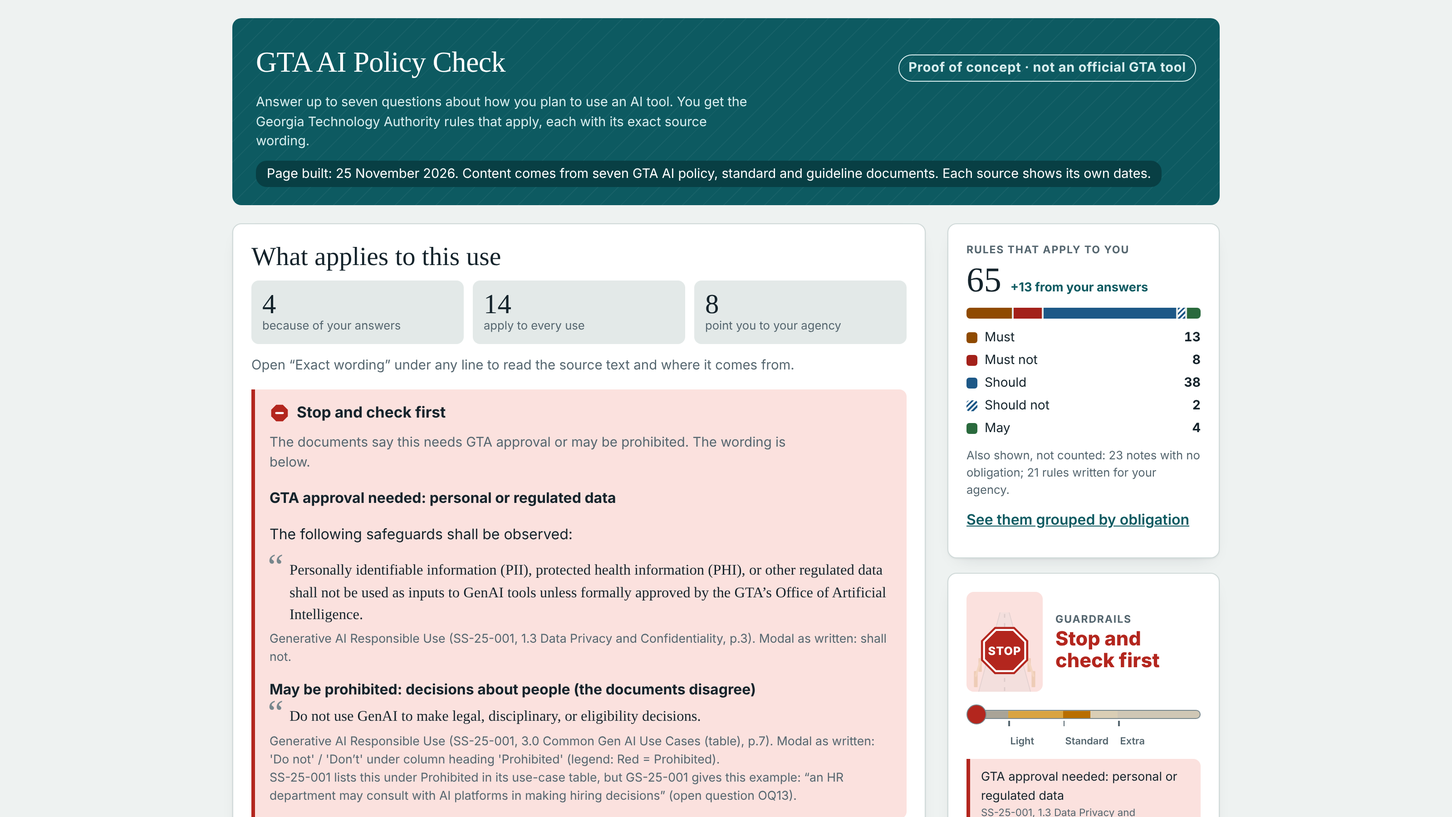
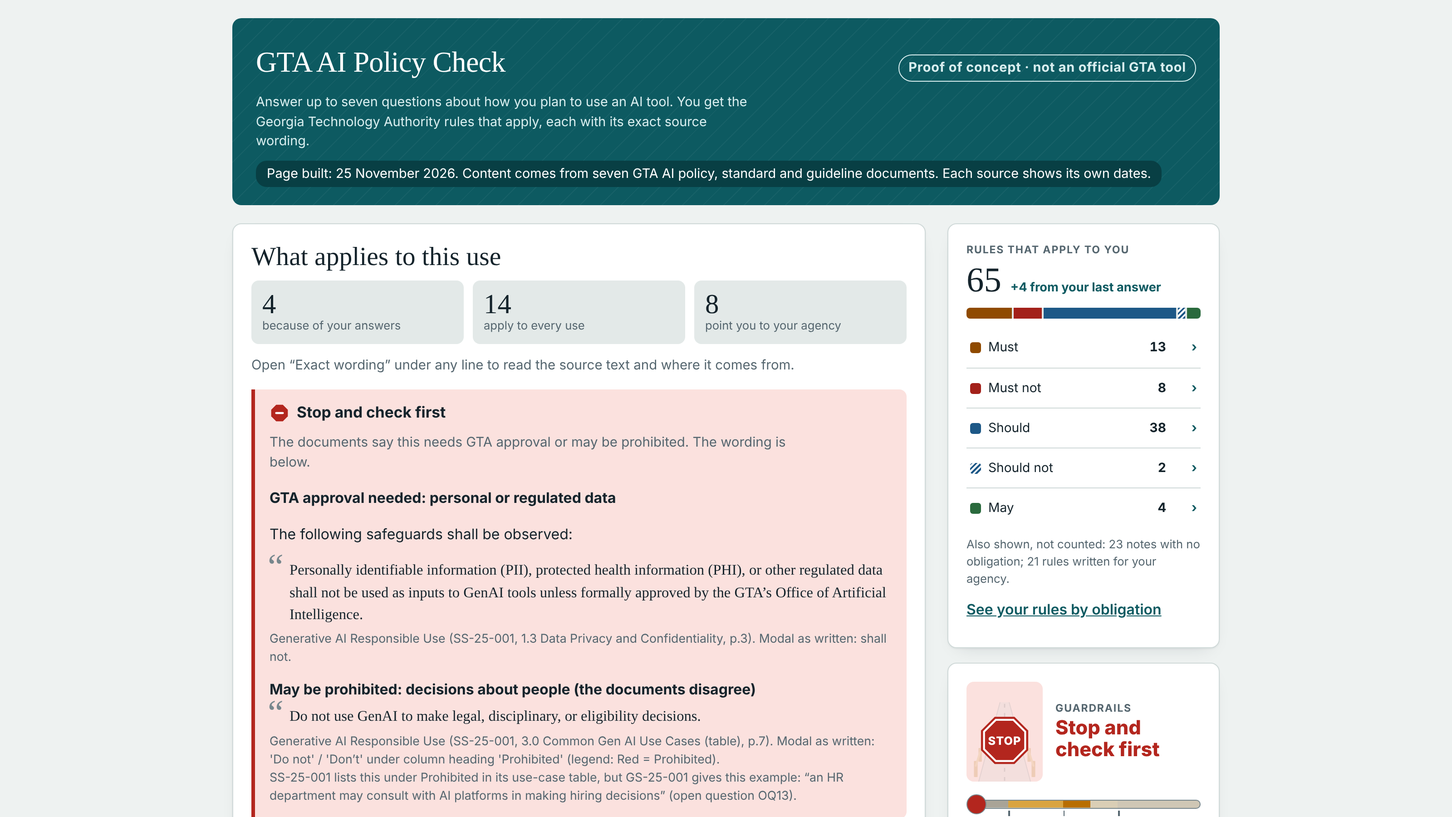
Start over to the first question; link rule counts to results; count from 0
- Start over clears answers and returns to the first question; every
  result page (including 'It does not use AI') ends with Start over
- Each legend row opens results grouped by obligation at that section;
  agency rules get their own section so counts match the panel
- Rules count is 0 until the first answer; label shows each answer's change

Claude-Session: https://claude.ai/code/session_01UME3yHyTmeMZN4Qs47Nq3S

Changed region(s): [[0.6562, 0.4044, 0.8438, 1.0], [0.6875, 0.3422, 0.8125, 0.3733]]

diff --git a/site/index.html b/site/index.html
@@ -308,11 +308,15 @@ body.intro header.top{align-items:center}
 .oblbar .must,.obllegend .must::before{background:var(--must)}.oblbar .must_not,.obllegend .must_not::before{background:var(--mustnot)}
 .oblbar .should,.obllegend .should::before{background:var(--should)}.oblbar .may,.obllegend .may::before{background:var(--may)}
 .oblbar .should_not,.obllegend .should_not::before{background:repeating-linear-gradient(135deg,var(--should) 0 2px,var(--surface) 2px 4px)}
-.obllegend{list-style:none;margin:0;padding:0;display:grid;grid-template-columns:1fr auto;gap:4px 10px;font-size:.88rem}
-.obllegend li{display:contents}
+.obllegend{list-style:none;margin:0;padding:0;font-size:.88rem}
+.obllegend button{display:grid;grid-template-columns:1fr auto auto;gap:8px;align-items:center;width:100%;min-height:44px;padding:0 4px;background:none;border:0;border-top:1px solid var(--line);cursor:pointer;text-align:left}
+.obllegend li:first-child button{border-top:0}
+.obllegend button:hover{background:var(--accent-soft)}
 .obllegend span{display:flex;align-items:center;gap:8px}
 .obllegend span::before{content:"";width:12px;height:12px;border-radius:3px;flex-shrink:0}
 .obllegend b{font-variant-numeric:tabular-nums;text-align:right}
+.obllegend .go{color:var(--accent);font-weight:700}
+.endnav{margin-top:20px}
 .oblnote{margin:10px 0 0;font-size:.8rem;color:var(--muted)}
 .oblgo{min-height:44px;padding:0}
 @media (prefers-reduced-motion:reduce){.oblnum b.bump{animation:none}}
@@ -337,7 +341,7 @@ body.intro header.top{align-items:center}
         <div class="oblbar" id="oblbar" aria-hidden="true"></div>
         <ul class="obllegend" id="obllegend"></ul>
         <p class="oblnote" id="oblnote"></p>
-        <button class="link oblgo" id="oblgo" type="button" hidden>See them grouped by obligation</button>
+        <button class="link oblgo" id="oblgo" type="button" hidden>See your rules by obligation</button>
       </section>
       <section class="card" aria-labelledby="guardh">
         <div class="heat">
@@ -421,21 +425,24 @@ function answersList(){var a=h("ul",{class:"answers"},[]),any=false;
 var OBL=[["must","Must"],["must_not","Must not"],["should","Should"],["should_not","Should not"],["may","May"]];
 // Rules that apply to the person: provisions in the topics shown to them (always-shown + triggered), by modality.
 // Agency pointers are agency duties, and Notes carry no obligation, so both are reported but not counted.
+function answered(){return Object.keys(facts).length>0}
 function rulesNow(){var c={must:0,must_not:0,should:0,should_not:0,may:0,informational:0},added=0,agency=0;
-  if(!gated()){baseEls().concat(active()).forEach(function(e){sts(e).forEach(function(s){c[s.m]+=s.prov.length;if(e.tier==="conditional"&&s.m!=="informational")added+=s.prov.length})});
+  if(answered()&&!gated()){baseEls().concat(active()).forEach(function(e){sts(e).forEach(function(s){c[s.m]+=s.prov.length;if(e.tier==="conditional"&&s.m!=="informational")added+=s.prov.length})});
     ptrsNow().forEach(function(p){agency+=(isOther()?p.oprov:p.prov).length})}
   var total=0;OBL.forEach(function(o){total+=c[o[0]]});return{c:c,total:total,added:added,agency:agency}}
-function renderRules(){var r=rulesNow(),tb=$("obltotal"),prev=renderRules.last;
+// The label reports what the latest change of answers did, so every answer gets visible feedback.
+var RS={key:"{}",total:0,delta:null};
+function renderRules(){var r=rulesNow(),tb=$("obltotal"),key=JSON.stringify(facts);
+  if(key!==RS.key){RS.delta=answered()?r.total-RS.total:null;RS.key=key;RS.total=r.total;
+    if(RS.delta){tb.classList.remove("bump");void tb.offsetWidth;tb.classList.add("bump")}}
   tb.textContent=String(r.total);
-  $("obldelta").textContent=r.added?"+"+r.added+" from your answers":"";
-  if(prev!==undefined&&prev!==r.total){tb.classList.remove("bump");void tb.offsetWidth;tb.classList.add("bump")}
-  renderRules.last=r.total;
+  $("obldelta").textContent=RS.delta===null?"":RS.delta>0?"+"+RS.delta+" from your last answer":RS.delta<0?"−"+(-RS.delta)+" from your last answer":"No new rules from your last answer";
   var bar=$("oblbar"),lg=$("obllegend");bar.textContent="";lg.textContent="";
   OBL.forEach(function(o){var n=r.c[o[0]];if(!n)return;var seg=h("i",{class:o[0]});seg.style.flexGrow=String(n);bar.appendChild(seg);
-    lg.appendChild(h("li",null,[h("span",{class:o[0],text:o[1]}),h("b",{text:String(n)})]))});
+    lg.appendChild(h("li",null,[h("button",{type:"button","aria-label":o[1]+": "+n+(n===1?" rule":" rules")+". Show them",on:{click:function(){goObl(o[0])}}},[h("span",{class:o[0],text:o[1]}),h("b",{text:String(n)}),h("span",{class:"go","aria-hidden":"true",text:"›"})])]))});
   var notes=[];if(r.c.informational)notes.push(r.c.informational+" notes with no obligation");if(r.agency)notes.push(r.agency+" rules written for your agency");
-  $("oblnote").textContent=notes.length?"Also shown, not counted: "+notes.join("; ")+".":"";
-  $("oblgo").hidden=!(showResults&&started&&r.total);
+  $("oblnote").textContent=!answered()?"Answer the first question to see the rules that apply to you.":notes.length?"Also shown, not counted: "+notes.join("; ")+".":"";
+  $("oblgo").hidden=!(started&&r.total);
   return r}
 function renderRail(){
   var rr=renderRules();
@@ -491,7 +498,7 @@ var MODORD=["must","must_not","should","should_not","may","informational"],MODNA
 var DTORD=["Policy","Standard","Guideline","Web page"],DTNAME={Policy:"Policies",Standard:"Standards",Guideline:"Guidelines","Web page":"Web page (no policy, standard or guideline label)"};
 function rowsNow(act,base,ptrs){var r=[];
   act.concat(base).forEach(function(e){sts(e).forEach(function(s){s.prov.forEach(function(p){r.push({p:p,m:p.mod,where:"Topic: "+e.title})})})});
-  ptrs.forEach(function(q){(isOther()?q.oprov:q.prov).forEach(function(p){r.push({p:p,m:p.mod,where:"Written for agencies: "+q.pointer})})});
+  ptrs.forEach(function(q){(isOther()?q.oprov:q.prov).forEach(function(p){r.push({p:p,m:p.mod,agency:true,where:"Written for agencies: "+q.pointer})})});
   return r}
 function docKey(p){return p.docid||"5GP"}
 function rowEl(x){var p=x.p;
@@ -507,9 +514,13 @@ function grouped(rows){
     order=Object.keys(docs).sort(function(a,b){var d=DTORD.indexOf(docs[a].dt)-DTORD.indexOf(docs[b].dt);return d||a.localeCompare(b)});
     name=function(k){var p=docs[k];return p.doc+(p.docid?" ("+p.docid+")":" (no identifier)")+" · "+p.dt}}
   var cmp=function(a,b){return (MODORD.indexOf(a.m)-MODORD.indexOf(b.m))||docKey(a.p).localeCompare(docKey(b.p))||(a.p.pg-b.p.pg)||a.p.id.localeCompare(b.p.id)};
-  return order.map(function(k){var g=rows.filter(function(x){return key(x)===k}).sort(cmp);if(!g.length)return null;
-    var notes={};g.forEach(function(x){if(x.p.dtn)notes[x.p.dtn]=1});
-    return h("section",{class:"sec"},[h("h2",{text:name(k)+" ("+g.length+")"})].concat(Object.keys(notes).map(function(n){return h("p",{class:"gnote",text:n})})).concat([h("div",{class:"el"},g.map(rowEl))]))}).filter(Boolean);
+  // Grouped by obligation, rules written for agencies get their own section, so the counts match "Rules that apply to you".
+  var agencyRows=view==="mod"?rows.filter(function(x){return x.agency}):[];if(view==="mod")rows=rows.filter(function(x){return !x.agency});
+  function sec(id,title,g,extra){var notes={};g.forEach(function(x){if(x.p.dtn)notes[x.p.dtn]=1});
+    return h("section",{class:"sec",id:id},[h("h2",{text:title+" ("+g.length+")",tabindex:"-1"})].concat((extra?[extra]:[]).concat(Object.keys(notes)).map(function(n){return h("p",{class:"gnote",text:n})})).concat([h("div",{class:"el"},g.sort(cmp).map(rowEl))]))}
+  var out=order.map(function(k){var g=rows.filter(function(x){return key(x)===k});return g.length?sec("grp-"+k,name(k),g):null}).filter(Boolean);
+  if(agencyRows.length)out.push(sec("grp-agency","Written for your agency",agencyRows,"Not counted in “Rules that apply to you”: these are duties the documents give to agencies. Ask your agency whether they affect your project."));
+  return out;
 }
 function viewBar(){var opts=[["topic","Topic"],["mod","Must / Should / May"],["dt","Policy, standard or guideline"],["doc","Document"]];
   return h("div",{class:"views",role:"group","aria-label":"Group results by"},[h("span",{text:"Group by"})].concat(opts.map(function(o){
@@ -643,30 +654,35 @@ function signBanner(level){var st=signsNow().filter(function(x){return x.s.level
   return h("div",{class:"stopban"+(stop?"":" check"),role:"note","aria-labelledby":id},[h("h3",{id:id},[ic,stop?"Stop and check first":"Check first"]),
     h("p",{class:"help",text:stop?"The documents say this needs GTA approval or may be prohibited. The wording is below.":"The documents say this needs a review or authorization first. The wording is below."})].concat(st.map(function(x){var p=x.s.prov;
     return h("div",{class:"sreason"},[h("b",{text:x.s.title}),p.lead?h("p",{class:"lead",text:p.lead}):null,quote(p),h("small",{text:p.doc+" ("+cite(p)+"). Modal as written: "+p.aw+(x.ns?". Shown because you answered Not sure.":".")}),x.s.note?h("small",{text:x.s.note}):null])})))}
+function closeOut(main){main.appendChild(h("p",{class:"closing",text:META.closing}));
+  main.appendChild(h("div",{class:"nav endnav"},[h("button",{class:"btn ghost",type:"button",on:{click:startOver}},["Start over"])]))}
 function renderResults(){
   var main=$("main");main.textContent="";
   if(gated()){var g=META.gate;
     main.appendChild(h("div",{class:"card q"},[h("h2",{text:"No results for technology without AI",tabindex:"-1",id:"qh"}),h("p",{class:"help",text:g.text}),
       moreBox("gate","More about this result",[h("p",{class:"help",text:g.note}),h("ul",{class:"src"},g.cites.map(function(c){return h("li",{text:c})}))])]));
-    main.appendChild(h("p",{class:"closing",text:META.closing}));return;}
+    closeOut(main);return;}
   var act=active(),ptrs=ptrsNow(),base=baseEls();
+  var left=applicable().filter(function(q){return !(q.fact in facts)}).length;
+  var partial=left?h("div",{class:"confirm"},[h("p",{style:"margin:0 0 8px",text:"These are the rules for your answers so far. "+left+(left===1?" question is":" questions are")+" left, and they may add more."}),
+    h("button",{class:"btn",type:"button",on:{click:function(){showResults=false;editing=null;render()}}},["Continue the questions"])]):null;
   var ns=applicable().filter(function(q){var s=sel(q);return q.options.some(function(o){return o.not_sure&&s.indexOf(o.value)>=0})});
-  main.appendChild(h("div",{class:"card q"},[h("h2",{text:"What applies to this use",tabindex:"-1",id:"qh"}),
+  main.appendChild(h("div",{class:"card q"},[h("h2",{text:"What applies to this use",tabindex:"-1",id:"qh"}),partial,
     moreBox("mobans","Your answers ("+applicable().filter(function(q){return q.fact in facts}).length+")",[answersList()],"mobans"),
     h("div",{class:"tiles"},[[act.length,"because of your answers"],[base.length,"apply to every use"],[ptrs.length,"point you to your agency"]].map(function(t){return h("div",{class:"tile"},[h("b",{text:String(t[0])}),h("span",{text:t[1]})])})),
     h("p",{class:"help",text:"Open “Exact wording” under any line to read the source text and where it comes from."})]
     .concat([signBanner("stop"),signBanner("check")]).concat(ns.map(function(q){var o=q.options.filter(function(o){return o.not_sure})[0];return h("p",{class:"confirm",text:"You answered Not sure to “"+q.text+"” "+o.confirm})})).concat([tabBar(stepsNow(act,base,ptrs).length)]).concat(tab==="applies"?[viewBar()]:[])));
   placeInd();
   var pn=h("div",{role:"tabpanel",id:"tabpanel","aria-labelledby":"tab-"+tab});main.appendChild(pn);main=pn;
-  if(tab==="steps"){stepsView(stepsNow(act,base,ptrs),decsNow(act,base,ptrs)).forEach(function(n){main.appendChild(n)});main.appendChild(h("p",{class:"closing",text:META.closing}));return;}
+  if(tab==="steps"){stepsView(stepsNow(act,base,ptrs),decsNow(act,base,ptrs)).forEach(function(n){main.appendChild(n)});closeOut(main);return;}
   (META.notes||[]).filter(function(n){return match(n.when,facts)}).forEach(function(n){
     main.appendChild(h("article",{class:"el ptr"},[h("p",{class:"do",text:"About other AI and AI agents"}),
       moreBox("note-"+n.id,"Read the note",[h("p",{text:n.text}),h("details",null,[h("summary",{text:"Sources ("+n.cites.length+")"}),h("ul",{class:"src"},n.cites.map(function(c){return h("li",{text:c})}))])])]))});
-  if(view!=="topic"){grouped(rowsNow(act,base,ptrs)).forEach(function(n){main.appendChild(n)});main.appendChild(h("p",{class:"closing",text:META.closing}));return;}
+  if(view!=="topic"){grouped(rowsNow(act,base,ptrs)).forEach(function(n){main.appendChild(n)});closeOut(main);return;}
   if(act.length)main.appendChild(section("Because of your answers","These apply only in the situation you described.",act.map(elCard)));
   main.appendChild(section("Check with your agency","These rules are written for agencies. The documents do not name the office to ask, so the pointer stops at your agency.",ptrs.map(ptrCard)));
   main.appendChild(section("Applies to every use","These apply to every use of the kind of AI you described.",base.map(elCard)));
-  main.appendChild(h("p",{class:"closing",text:META.closing}));
+  closeOut(main);
 }
 function setErr(inp,el,msg){el.textContent=msg;el.hidden=!msg;inp.setAttribute("aria-invalid",msg?"true":"false")}
 function field(id,label,hint,attrs){var inp=h("input",Object.assign({id:id,name:id,"aria-describedby":(hint?id+"-hint ":"")+id+"-err"},attrs)),err=h("p",{id:id+"-err",class:"ferr",hidden:""});
@@ -702,8 +718,12 @@ function render(){
 }
 var opened=[];window.addEventListener("beforeprint",function(){opened=[];document.querySelectorAll("details:not([open])").forEach(function(d){d.open=true;opened.push(d)})});
 window.addEventListener("afterprint",function(){opened.forEach(function(d){d.open=false});opened=[]});
-$("oblgo").addEventListener("click",function(){view="mod";tab="applies";renderResults();var v=document.querySelector(".views");if(v){v.scrollIntoView({block:"start"});var b=v.querySelector('[aria-pressed="true"]');if(b)b.focus({preventScroll:true})}renderRail()});
-$("restart").addEventListener("click",function(){facts={};editing=null;showResults=false;started=false;render()});
+function goObl(m){editing=null;showResults=true;view="mod";tab="applies";render();
+  var t=(m&&$("grp-"+m))||document.querySelector(".views");if(!t)return;
+  t.scrollIntoView({block:"start"});var f=t.querySelector("h2")||t.querySelector('[aria-pressed="true"]');if(f)f.focus({preventScroll:true})}
+$("oblgo").addEventListener("click",function(){goObl(null)});
+function startOver(){facts={};editing=null;showResults=false;view="topic";tab="applies";render()}
+$("restart").addEventListener("click",startOver);
 fetch("data.json").then(function(r){if(!r.ok)throw new Error(r.status);return r.json()}).then(function(recs){
   recs.forEach(function(r){if(r.k==="q")Q.push(r);else if(r.k==="el")EL.push(r);else if(r.k==="ptr")PT.push(r);else if(r.k==="meta"){META=r;if(r.updated){var u=$("updated");u.textContent="";var pl=h("span",{class:"updpill"},["Page built: ",h("time",{datetime:r.updated.iso,text:r.updated.text}),(r.updated.basis?". "+r.updated.basis+".":"")]);u.appendChild(pl)}}else if(r.k==="step")STEPS.push(r);else if(r.k==="dec")DEC.push(r);else if(r.k==="stepgap")STEPGAP=r;else if(r.k==="factor")FACTORS.push(r);else if(r.k==="sign")SIGNS.push(r)});
   render();

diff --git a/tests/test_obligations.py b/tests/test_obligations.py
@@ -52,6 +52,9 @@ async def main():
             pg.on("pageerror", lambda e: errs.append(str(e)))
             await pg.goto("http://localhost:8765/index.html"); await pg.fill("#agency", "Test agency"); await pg.click("#start"); await pg.wait_for_selector(".opt")
             facts, trail, bad, totals = {}, [], [], []
+            if await pg.inner_text("#obltotal") != "0" or await pg.locator("#obllegend li").count():
+                bad.append("count is not 0 before the first answer")
+            prev = 0
             for fact, value, click in steps:
                 if isinstance(click, list):
                     for t in click: await pg.locator(".opts.multi .opt", has_text=t).first.click()
@@ -63,18 +66,34 @@ async def main():
                 c, added = expected(facts)
                 total = sum(c[m] for m in OBL)
                 got = int(await pg.inner_text("#obltotal"))
-                legend = dict(zip([t.strip() for t in await pg.locator("#obllegend span").all_inner_texts()],
+                legend = dict(zip([t.strip() for t in await pg.locator("#obllegend button span:first-child").all_inner_texts()],
                                   [int(t) for t in await pg.locator("#obllegend b").all_inner_texts()]))
                 want_legend = {NAME[m]: c[m] for m in OBL if c[m]}
                 delta = await pg.inner_text("#obldelta")
-                want_delta = f"+{added} from your answers" if added else ""
+                d = total - prev; prev = total
+                want_delta = f"+{d} from your last answer" if d > 0 else f"−{-d} from your last answer" if d < 0 else "No new rules from your last answer"
                 if got != total or legend != want_legend or delta != want_delta:
                     bad.append(dict(after=fact, got=(got, legend, delta), want=(total, want_legend, want_delta)))
                 totals.append(got)
+            # each legend row opens the results grouped by obligation, at a section whose count matches the panel
+            rows = await pg.locator("#obllegend button").count()
+            for i in range(rows):
+                label = (await pg.locator("#obllegend button span:first-child").nth(i).inner_text()).strip()
+                n = (await pg.locator("#obllegend b").nth(i).inner_text()).strip()
+                await pg.locator("#obllegend button").nth(i).click(); await pg.wait_for_timeout(60)
+                head = await pg.evaluate("document.activeElement.textContent")
+                if head != f"{label} ({n})": bad.append(dict(legend=(label, n), landed_on=head))
+            # every result page ends with Start over, which returns to the first question with the count at 0
+            if rows or name == "no AI":
+                if name != "no AI": await pg.get_by_role("tab", name="What applies").click()
+                await pg.locator("#main button", has_text="Start over").click(); await pg.wait_for_timeout(60)
+                if await pg.inner_text("#qh") != "What kind of AI is it?" or await pg.inner_text("#obltotal") != "0":
+                    bad.append("Start over did not return to the first question with 0 rules")
             status = await pg.inner_text("#status")
             note = await pg.inner_text("#oblnote")
             moved = len(set(totals)) > 1 or name == "no AI"
-            good = not bad and moved and not errs and ("rules apply to you" in status)
+            good = not bad and moved and not errs and ("rules apply to you" in status or not any(totals))  # an unchanged 0 is not re-announced
+            if not good: print("   debug:", dict(moved=moved, status=status))
             ok &= good
             print(f"{name}: totals {' → '.join(map(str, totals))} | note: {note!r} | {'PASS' if good else 'FAIL'} {bad[:2]} {errs}")
             await pg.close()

diff --git a/tests/test_intro.py b/tests/test_intro.py
@@ -1,5 +1,5 @@
 """Title screen: proof-of-concept notice, agency (required) and email (optional), kept in this
-browser only. Checks validation and focus, pre-filling, "Forget my details", "Start over", that
+browser only. Checks validation and focus, pre-filling, "Forget my details", Start over (back to the first question), that
 nothing is sent off the page's own origin, and that the page still works when storage is blocked.
 Needs the site served on localhost:8765.
 """
@@ -60,7 +60,10 @@ async def main():
         await pg.fill("#agency", "Department of Example"); await pg.fill("#email", "person@example.gov"); await pg.click("#start")
         await pg.wait_for_selector(".opt"); await pg.locator(".opt").first.click()
         await pg.get_by_role("button", name="Start over").click()
-        check("start over returns to title screen", await pg.locator("#agency").count() == 1 and await pg.input_value("#email") == "person@example.gov")
+        check("start over returns to the first question, agency kept", await pg.locator("#agency").count() == 0
+              and await pg.inner_text("#qh") == "What kind of AI is it?" and "Department of Example" in await pg.locator("#answers").inner_text())
+        await pg.get_by_role("button", name="Change your agency").click()
+        check("changing the agency returns to the title screen, pre-filled", await pg.input_value("#email") == "person@example.gov")
 
         off = [u for _, u in requests if not u.startswith("http://localhost:8765/")]
         posts = [u for m, u in requests if m != "GET"]

diff --git a/README.md b/README.md
@@ -31,8 +31,8 @@ More in [`docs/images/`](docs/images/): the title screen, the question flow, exa
 The tool is one static page (`site/index.html`) that loads `site/data.json` in the browser. There is no server-side code, no sign-in, and no third-party request.
 
 - **Title screen:** your agency (required) and work email (optional), then Start. In this proof of concept both stay in your browser, to fill in the form next time, and are never sent anywhere. "Forget my details" clears them. A header pill says it is a proof of concept, and the page asks search engines not to index it.
-- **Questions:** up to seven plain-language questions, starting with the kind of AI. Every question has a "Not sure" answer, which is treated as if it applies, to be safe. The second question (what you're using it for) accepts several answers; the result is everything any chosen task triggers. A "Your answers" panel lets you change any answer.
-- **Rules that apply to you:** a live count at the top of the side panel. It rises with each answer that adds a rule, shows "+N from your answers", and splits into Must, Must not, Should, Should not and May with a bar and legend. Notes with no obligation, and rules written for your agency, are listed but not counted.
+- **Questions:** up to seven plain-language questions, starting with the kind of AI. Every question has a "Not sure" answer, which is treated as if it applies, to be safe. The second question (what you're using it for) accepts several answers; the result is everything any chosen task triggers. A "Your answers" panel lets you change any answer, and Start over (in the panel and at the end of every result page, including "It does not use AI") clears your answers and returns to the first question.
+- **Rules that apply to you:** a live count at the top of the side panel. It starts at 0, fills in on your first answer, and then says what each answer changed ("+7 from your last answer", "No new rules from your last answer"). A bar and legend split it into Must, Must not, Should, Should not and May; each row opens the results grouped by obligation at that section, with the same count (opened before the last question, the page says the rules cover your answers so far). Notes with no obligation, and rules written for your agency, are listed but not counted; in the grouped view, agency rules have their own section.
 - **Guardrails:** a road picture whose posts rise with risk factors in what you described: personal or sensitive information (2), a decision about a person (2), something the public sees or uses (1), buying or building an AI tool (1), AI content in an official document (1), and legal analysis or AI note-taking in meetings (1). Levels: Baseline rules only (0), Light (1–2), Standard (3–4), Extra (5+). Each reason cites its provision. These values are the tool's own, pending GTA sign-off.
 - **Stop and Check first signs:**
   - **Red stop:** the documents require GTA approval, or may prohibit the use. With generative AI, this covers personal or regulated data (SS-25-001 1.3), buying a GenAI product (SS-25-001 1.5) and decisions about people (SS-25-001 3.0; GS-25-001 disagrees, OQ13).
@@ -158,7 +158,7 @@ Each suite prints one line per route ending in `PASS` or `FAIL`, and exits with 
 | Suite | Checks |
 |---|---|
 | `test_intro.py` | Title screen: validation and focus, saving, "Forget my details", Start over, blocked storage, and that no request leaves the site |
-| `test_obligations.py` | "Rules that apply to you" recalculated from the data after every answer (4 routes) |
+| `test_obligations.py` | "Rules that apply to you": 0 before answering, recalculated from the data after every answer, each legend row lands on a matching section, and Start over (4 routes) |
 | `test_score.py` | Guardrails and signs against an independent calculation over 53,656 routes, then 11 routes in the page |
 | `test_multi.py` | Several tasks = the union of single tasks, over 125,280 combinations, then 5 routes in the page |
 | `test_decisions.py` | Who decides, in review mode (7 routes) |

diff --git a/CLAUDE.md b/CLAUDE.md
@@ -43,7 +43,7 @@ Data flows one way through numbered stages; each script reads the previous stage
 4. `scripts/decision_rights.py` → `decision_rights.json`/`.md`: who decides what (DR-##), hand-written; every role is asserted to be a verbatim substring of its provision.
 5. `scripts/gen_site.py` → `site/data.json`: flattens everything into records keyed by `k` (`meta`, `q`, `el`, `ptr`, `step`, `dec`, `stepgap`). Next-step cards (`STEPS`) and step→decision links (`STEPDEC`) are hard-coded here, and their quotes and links are asserted against the source text.
 
-`site/index.html` is one file of dense, inline vanilla JS and CSS. It opens on a title screen (`renderIntro()`: agency required, email optional, kept in `localStorage` only, every access in try/catch); browser tests must fill `#agency` and click `#start` first. It loads `data.json`, re-implements `match()`/`ask_if` from the tree, and renders the question flow, results (four grouping views), the Next steps tab and the review mode (`#review`). The side panel opens with "Rules that apply to you" (`rulesNow()`/`renderRules()`): provisions in shown topics by modality, excluding Notes and agency pointers; `tests/test_obligations.py` checks it. Guardrail factors and the red stop / amber Check first signs are defined in `gen_site.py` (`FACTORS`, `SIGNS`) and rendered by `factorsNow()`/`signsNow()`/`renderRail()`; level cut-offs (`levelOf()`, `PMAX`) are in the page. `tests/test_score.py` holds an independent `expected()` calculation of the approved design, so change it together with them. CSS is in layered override blocks (`/* 1 header band */` … `/* 8 polish */`) that redefine earlier rules; check later blocks before editing an earlier one.
+`site/index.html` is one file of dense, inline vanilla JS and CSS. It opens on a title screen (`renderIntro()`: agency required, email optional, kept in `localStorage` only, every access in try/catch); browser tests must fill `#agency` and click `#start` first. It loads `data.json`, re-implements `match()`/`ask_if` from the tree, and renders the question flow, results (four grouping views), the Next steps tab and the review mode (`#review`). The side panel opens with "Rules that apply to you" (`rulesNow()`/`renderRules()`): 0 until the first answer, then provisions in shown topics by modality, excluding Notes and agency pointers; the label shows the change from the last answer, and legend rows call `goObl()` to open the grouped-by-obligation view at `#grp-<modality>` (agency rows sit in `#grp-agency`). `startOver()` clears answers and returns to the first question (agency kept). `tests/test_obligations.py` checks it. Guardrail factors and the red stop / amber Check first signs are defined in `gen_site.py` (`FACTORS`, `SIGNS`) and rendered by `factorsNow()`/`signsNow()`/`renderRail()`; level cut-offs (`levelOf()`, `PMAX`) are in the page. `tests/test_score.py` holds an independent `expected()` calculation of the approved design, so change it together with them. CSS is in layered override blocks (`/* 1 header band */` … `/* 8 polish */`) that redefine earlier rules; check later blocks before editing an earlier one.
 
 ## Content rules (from CONTRIBUTING.md)
 

diff --git a/completed_tasks.md b/completed_tasks.md
@@ -82,3 +82,10 @@ Diagnosis: the live site worked as built, but Phase 1 replaced the rule count wi
 - [x] Page screenshots 00–09 regenerated
 - [x] Title screen simplified: one centred card (heading, one-line intro, agency, optional email, full-width Start, one privacy line); side panel and header description hidden until the questions start; whole form fits on a phone screen
 - [x] README rewritten: status and live link up front, current features (title screen, rules count, guardrails, signs), proposed Georgia build with diagram index, quick start, script/test tables, image regeneration, project documents; every command output and link verified
+
+## 2026-11-26: Start over, result links, rules count from 0
+- [x] Start over clears answers and returns to the first question (agency kept; "Your agency → Change" returns to the title screen)
+- [x] Every result page, including "It does not use AI", ends with a Start over button
+- [x] Each row of the "Rules that apply to you" legend opens the results grouped by obligation at that section; agency rules get their own section so the counts match; an "answers so far" notice with "Continue the questions" when opened early
+- [x] The count starts at 0 until the first answer, and the label reports each answer's change
+- [x] Tests updated (test_obligations, test_intro); all 9 suites and the accessibility audit pass; screenshots regenerated
